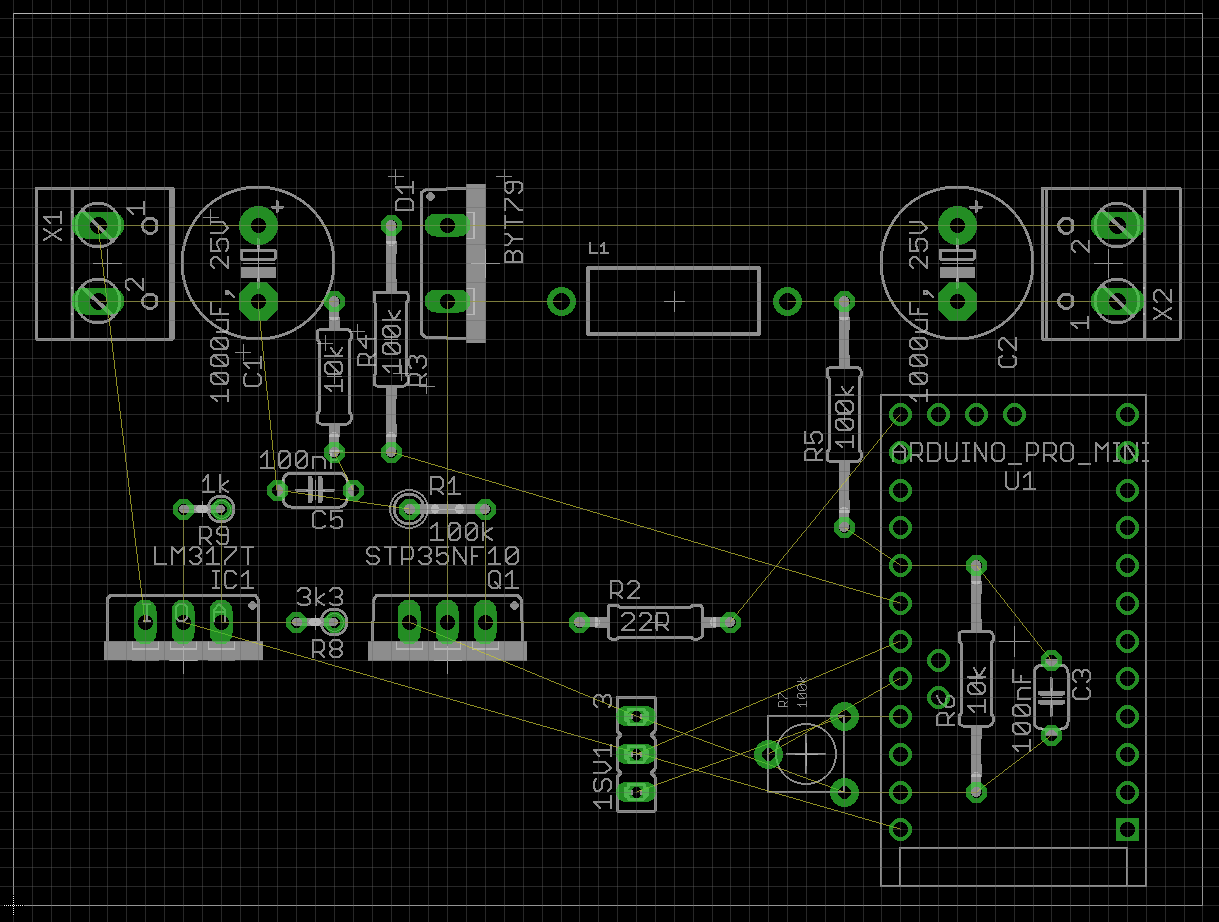
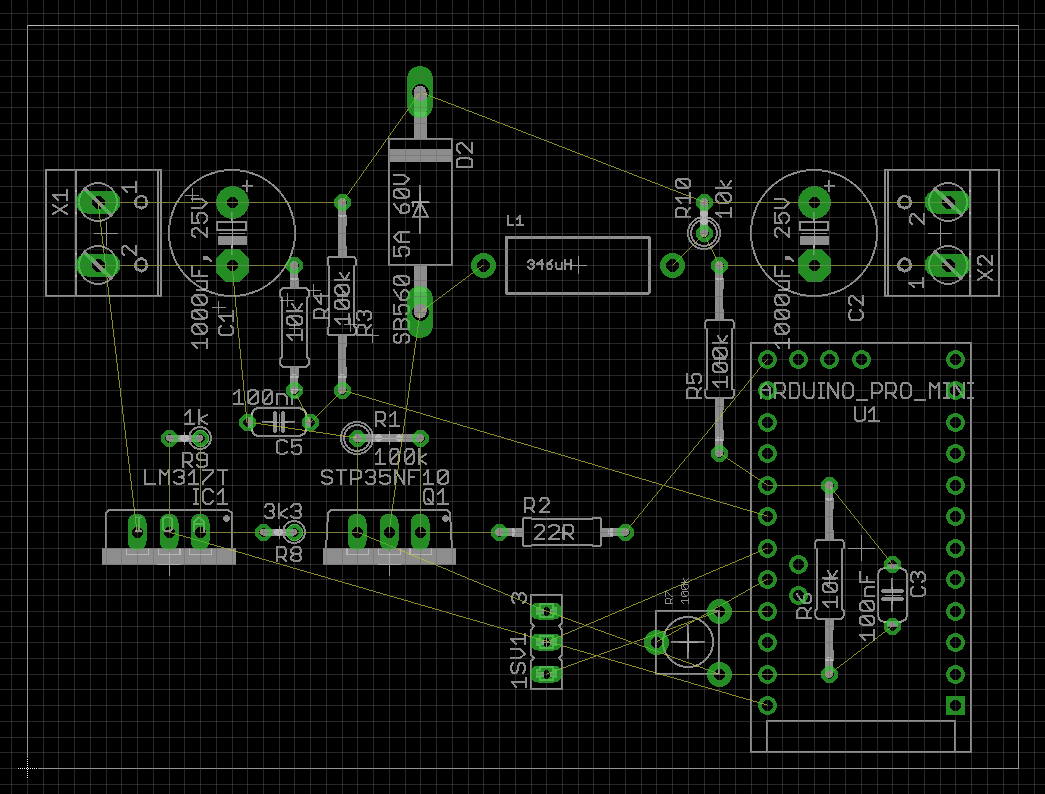
V1.5: Diode changed, current sensor moved

Changed region(s): [[0.0, 0.0, 1.0, 1.0]]

diff --git a/README.md b/README.md
@@ -36,6 +36,10 @@ New in V 1.4:
 - Warning! An anti backfeed diode is not yet implemented!
 - For 3.0A output current limit, the diode requires a heat sink!
 
+New in V 1.5:
+- Diode BYT79 replaced with 5A / 60V Schottky Diode SB560. Efficiency raised from 70% to 82%
+- ACS712 current sensor moved to output side, software changed accordingly. MPPT tracking improved.
+
 ## Usage
 
 See pictures
